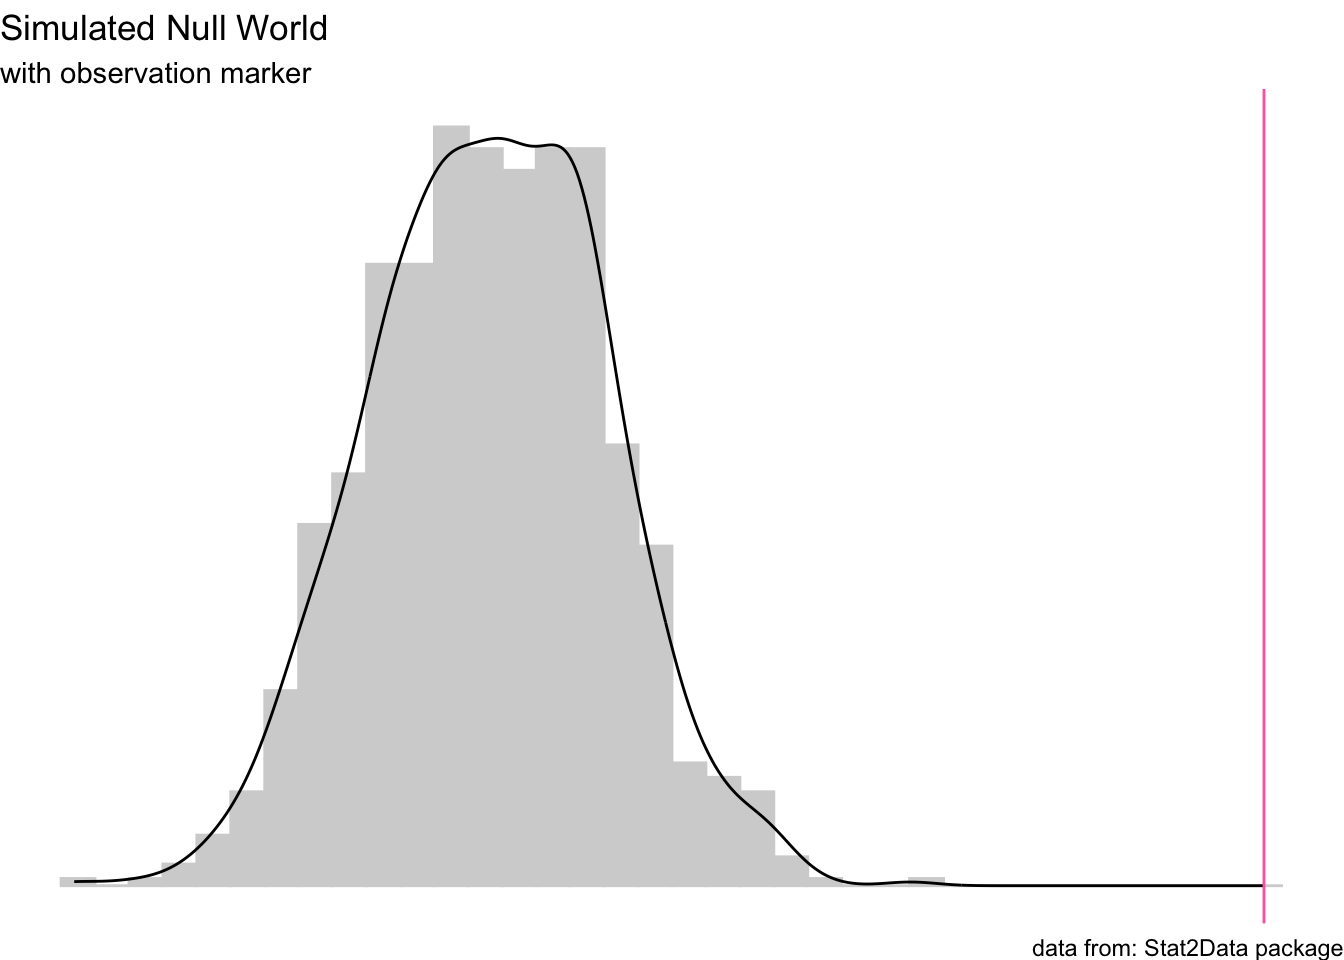
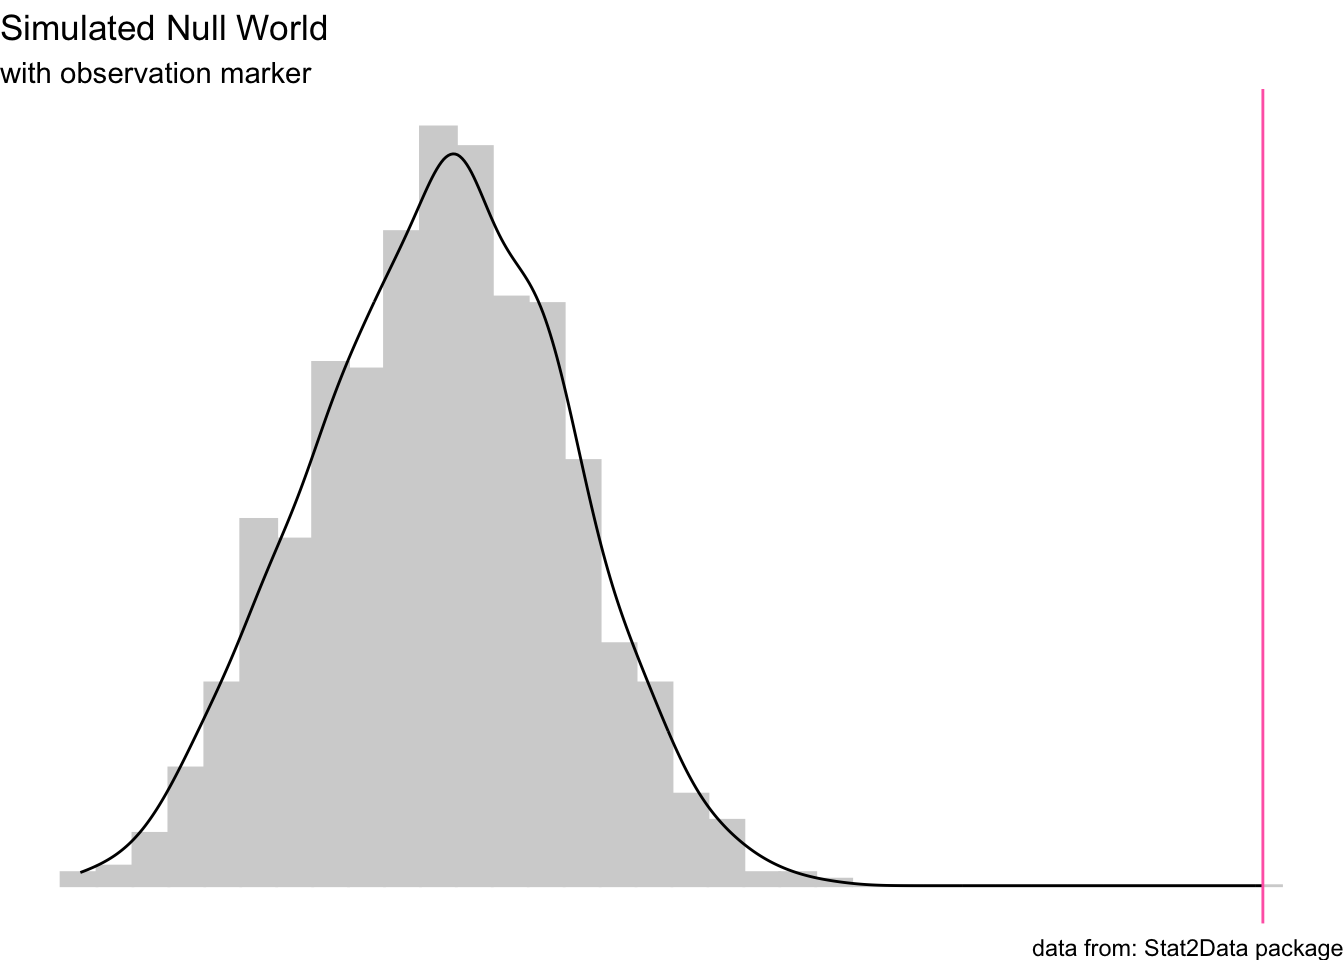
some edits

Changed region(s): [[0.0312, 0.125, 0.5312, 0.9375], [0.5, 0.75, 0.7188, 0.9375]]

diff --git a/docs/mini_proj_2.html b/docs/mini_proj_2.html
@@ -21,6 +21,40 @@ ul.task-list li input[type="checkbox"] {
   margin: 0 0.8em 0.2em -1em; /* quarto-specific, see https://github.com/quarto-dev/quarto-cli/issues/4556 */ 
   vertical-align: middle;
 }
+/* CSS for syntax highlighting */
+pre > code.sourceCode { white-space: pre; position: relative; }
+pre > code.sourceCode > span { display: inline-block; line-height: 1.25; }
+pre > code.sourceCode > span:empty { height: 1.2em; }
+.sourceCode { overflow: visible; }
+code.sourceCode > span { color: inherit; text-decoration: inherit; }
+div.sourceCode { margin: 1em 0; }
+pre.sourceCode { margin: 0; }
+@media screen {
+div.sourceCode { overflow: auto; }
+}
+@media print {
+pre > code.sourceCode { white-space: pre-wrap; }
+pre > code.sourceCode > span { text-indent: -5em; padding-left: 5em; }
+}
+pre.numberSource code
+  { counter-reset: source-line 0; }
+pre.numberSource code > span
+  { position: relative; left: -4em; counter-increment: source-line; }
+pre.numberSource code > span > a:first-child::before
+  { content: counter(source-line);
+    position: relative; left: -1em; text-align: right; vertical-align: baseline;
+    border: none; display: inline-block;
+    -webkit-touch-callout: none; -webkit-user-select: none;
+    -khtml-user-select: none; -moz-user-select: none;
+    -ms-user-select: none; user-select: none;
+    padding: 0 4px; width: 4em;
+  }
+pre.numberSource { margin-left: 3em;  padding-left: 4px; }
+div.sourceCode
+  {   }
+@media screen {
+pre > code.sourceCode > span > a:first-child::before { text-decoration: underline; }
+}
 </style>
 
 
@@ -153,9 +187,84 @@ ul.task-list li input[type="checkbox"] {
 </header>
 
 <div class="cell">
+<div class="sourceCode cell-code" id="cb1"><pre class="sourceCode r code-with-copy"><code class="sourceCode r"><span id="cb1-1"><a href="#cb1-1" aria-hidden="true" tabindex="-1"></a><span class="fu">library</span>(tidyverse)</span></code><button title="Copy to Clipboard" class="code-copy-button"><i class="bi"></i></button></pre></div>
+<div class="cell-output cell-output-stderr">
+<pre><code>── Attaching core tidyverse packages ──────────────────────── tidyverse 2.0.0 ──
+✔ dplyr     1.1.4     ✔ readr     2.1.5
+✔ forcats   1.0.0     ✔ stringr   1.5.1
+✔ ggplot2   3.4.4     ✔ tibble    3.2.1
+✔ lubridate 1.9.3     ✔ tidyr     1.3.1
+✔ purrr     1.0.2     
+── Conflicts ────────────────────────────────────────── tidyverse_conflicts() ──
+✖ dplyr::filter() masks stats::filter()
+✖ dplyr::lag()    masks stats::lag()
+ℹ Use the conflicted package (&lt;http://conflicted.r-lib.org/&gt;) to force all conflicts to become errors</code></pre>
+</div>
+<div class="sourceCode cell-code" id="cb3"><pre class="sourceCode r code-with-copy"><code class="sourceCode r"><span id="cb3-1"><a href="#cb3-1" aria-hidden="true" tabindex="-1"></a><span class="fu">library</span>(tidyr)</span>
+<span id="cb3-2"><a href="#cb3-2" aria-hidden="true" tabindex="-1"></a><span class="fu">library</span>(Stat2Data)</span>
+<span id="cb3-3"><a href="#cb3-3" aria-hidden="true" tabindex="-1"></a><span class="fu">library</span>(ggplot2)</span>
+<span id="cb3-4"><a href="#cb3-4" aria-hidden="true" tabindex="-1"></a><span class="fu">library</span>(ggthemes)</span>
+<span id="cb3-5"><a href="#cb3-5" aria-hidden="true" tabindex="-1"></a><span class="fu">data</span>(<span class="st">"Handwriting"</span>)</span></code><button title="Copy to Clipboard" class="code-copy-button"><i class="bi"></i></button></pre></div>
+</div>
+<div class="cell">
+<div class="sourceCode cell-code" id="cb4"><pre class="sourceCode r code-with-copy"><code class="sourceCode r"><span id="cb4-1"><a href="#cb4-1" aria-hidden="true" tabindex="-1"></a><span class="fu">t.test</span>(Both <span class="sc">~</span> Gender, <span class="at">data =</span> Handwriting)</span></code><button title="Copy to Clipboard" class="code-copy-button"><i class="bi"></i></button></pre></div>
+<div class="cell-output cell-output-stdout">
+<pre><code>
+    Welch Two Sample t-test
+
+data:  Both by Gender
+t = -7.3944, df = 180.12, p-value = 5.174e-12
+alternative hypothesis: true difference in means between group 0 and group 1 is not equal to 0
+95 percent confidence interval:
+ -14.532440  -8.410108
+sample estimates:
+mean in group 0 mean in group 1 
+       44.94382        56.41509 </code></pre>
+</div>
+</div>
+<div class="cell">
+<div class="sourceCode cell-code" id="cb6"><pre class="sourceCode r code-with-copy"><code class="sourceCode r"><span id="cb6-1"><a href="#cb6-1" aria-hidden="true" tabindex="-1"></a>handwriting_small <span class="ot">&lt;-</span> Handwriting <span class="sc">|&gt;</span> </span>
+<span id="cb6-2"><a href="#cb6-2" aria-hidden="true" tabindex="-1"></a>  <span class="fu">drop_na</span>() <span class="sc">|&gt;</span></span>
+<span id="cb6-3"><a href="#cb6-3" aria-hidden="true" tabindex="-1"></a>  <span class="fu">mutate</span>(<span class="at">gender =</span> Gender, <span class="at">perc_correct =</span> Both) <span class="sc">|&gt;</span> </span>
+<span id="cb6-4"><a href="#cb6-4" aria-hidden="true" tabindex="-1"></a>  <span class="fu">select</span>(gender, perc_correct) <span class="sc">|&gt;</span></span>
+<span id="cb6-5"><a href="#cb6-5" aria-hidden="true" tabindex="-1"></a>  <span class="fu">group_by</span>(gender) <span class="sc">|&gt;</span></span>
+<span id="cb6-6"><a href="#cb6-6" aria-hidden="true" tabindex="-1"></a>  <span class="fu">summarize</span>(<span class="at">avg_perc =</span> <span class="fu">mean</span>(perc_correct))</span>
+<span id="cb6-7"><a href="#cb6-7" aria-hidden="true" tabindex="-1"></a></span>
+<span id="cb6-8"><a href="#cb6-8" aria-hidden="true" tabindex="-1"></a>gender_diff <span class="ot">&lt;-</span> handwriting_small[[<span class="dv">2</span>]][<span class="dv">2</span>] <span class="sc">-</span> handwriting_small[[<span class="dv">2</span>]][<span class="dv">1</span>]</span>
+<span id="cb6-9"><a href="#cb6-9" aria-hidden="true" tabindex="-1"></a></span>
+<span id="cb6-10"><a href="#cb6-10" aria-hidden="true" tabindex="-1"></a></span>
+<span id="cb6-11"><a href="#cb6-11" aria-hidden="true" tabindex="-1"></a>sim_gender_diffs <span class="ot">&lt;-</span> <span class="fu">vector</span>(<span class="st">"double"</span>, <span class="dv">1000</span>)</span>
+<span id="cb6-12"><a href="#cb6-12" aria-hidden="true" tabindex="-1"></a><span class="cf">for</span>(i <span class="cf">in</span> <span class="dv">1</span><span class="sc">:</span><span class="dv">1000</span>) {</span>
+<span id="cb6-13"><a href="#cb6-13" aria-hidden="true" tabindex="-1"></a>  handwriting_small <span class="ot">&lt;-</span> Handwriting <span class="sc">|&gt;</span></span>
+<span id="cb6-14"><a href="#cb6-14" aria-hidden="true" tabindex="-1"></a>    <span class="fu">drop_na</span>() <span class="sc">|&gt;</span></span>
+<span id="cb6-15"><a href="#cb6-15" aria-hidden="true" tabindex="-1"></a>    <span class="fu">mutate</span>(<span class="at">gender =</span> Gender, </span>
+<span id="cb6-16"><a href="#cb6-16" aria-hidden="true" tabindex="-1"></a>           <span class="at">perc_correct =</span> Both, </span>
+<span id="cb6-17"><a href="#cb6-17" aria-hidden="true" tabindex="-1"></a>           <span class="at">gender =</span> <span class="fu">sample</span>(gender)) <span class="sc">|&gt;</span></span>
+<span id="cb6-18"><a href="#cb6-18" aria-hidden="true" tabindex="-1"></a>    <span class="fu">group_by</span>(gender) <span class="sc">|&gt;</span></span>
+<span id="cb6-19"><a href="#cb6-19" aria-hidden="true" tabindex="-1"></a>    <span class="fu">summarize</span>(<span class="at">avg_perc =</span> <span class="fu">mean</span>(perc_correct))</span>
+<span id="cb6-20"><a href="#cb6-20" aria-hidden="true" tabindex="-1"></a>  sim_gender_diffs[[i]] <span class="ot">&lt;-</span> handwriting_small[[<span class="dv">2</span>]][<span class="dv">2</span>] <span class="sc">-</span> handwriting_small[[<span class="dv">2</span>]][<span class="dv">1</span>]</span>
+<span id="cb6-21"><a href="#cb6-21" aria-hidden="true" tabindex="-1"></a>}  </span>
+<span id="cb6-22"><a href="#cb6-22" aria-hidden="true" tabindex="-1"></a></span>
+<span id="cb6-23"><a href="#cb6-23" aria-hidden="true" tabindex="-1"></a>sim_null_world <span class="ot">&lt;-</span> <span class="fu">tibble</span>(<span class="at">sim_gender_diffs =</span> sim_gender_diffs)</span>
+<span id="cb6-24"><a href="#cb6-24" aria-hidden="true" tabindex="-1"></a><span class="fu">ggplot</span>(sim_null_world, <span class="fu">aes</span>(<span class="at">x =</span> sim_gender_diffs)) <span class="sc">+</span></span>
+<span id="cb6-25"><a href="#cb6-25" aria-hidden="true" tabindex="-1"></a>  <span class="fu">geom_histogram</span>(<span class="fu">aes</span>(<span class="at">y =</span> <span class="fu">after_stat</span>(density)), <span class="at">color =</span> <span class="st">"lightgrey"</span>, <span class="at">fill =</span> <span class="st">"lightgrey"</span>, <span class="at">binwidth =</span> <span class="fl">0.5</span>) <span class="sc">+</span></span>
+<span id="cb6-26"><a href="#cb6-26" aria-hidden="true" tabindex="-1"></a>  <span class="fu">geom_density</span>(<span class="at">col =</span> <span class="st">"black"</span>) <span class="sc">+</span></span>
+<span id="cb6-27"><a href="#cb6-27" aria-hidden="true" tabindex="-1"></a>  <span class="fu">geom_vline</span>(<span class="at">xintercept =</span> gender_diff, <span class="at">color =</span> <span class="st">"hotpink"</span>) <span class="sc">+</span></span>
+<span id="cb6-28"><a href="#cb6-28" aria-hidden="true" tabindex="-1"></a>  <span class="fu">labs</span>(<span class="at">title =</span> <span class="st">"Simulated Null World"</span>,</span>
+<span id="cb6-29"><a href="#cb6-29" aria-hidden="true" tabindex="-1"></a>       <span class="at">subtitle =</span> <span class="st">"with observation marker"</span>,</span>
+<span id="cb6-30"><a href="#cb6-30" aria-hidden="true" tabindex="-1"></a>       <span class="at">caption =</span> <span class="st">"data from: Stat2Data package"</span>,</span>
+<span id="cb6-31"><a href="#cb6-31" aria-hidden="true" tabindex="-1"></a>       ) <span class="sc">+</span></span>
+<span id="cb6-32"><a href="#cb6-32" aria-hidden="true" tabindex="-1"></a>  <span class="fu">theme_void</span>()</span></code><button title="Copy to Clipboard" class="code-copy-button"><i class="bi"></i></button></pre></div>
 <div class="cell-output-display">
 <p><img src="mini_proj_2_files/figure-html/unnamed-chunk-3-1.png" class="img-fluid" width="672"></p>
 </div>
+<div class="sourceCode cell-code" id="cb7"><pre class="sourceCode r code-with-copy"><code class="sourceCode r"><span id="cb7-1"><a href="#cb7-1" aria-hidden="true" tabindex="-1"></a>find_p <span class="ot">&lt;-</span> <span class="cf">function</span>(x,y) {</span>
+<span id="cb7-2"><a href="#cb7-2" aria-hidden="true" tabindex="-1"></a>  p_value <span class="ot">&lt;-</span> <span class="fu">sum</span>(<span class="fu">abs</span>(x) <span class="sc">&gt;=</span> <span class="fu">abs</span>(y)) <span class="sc">/</span> <span class="dv">1000</span></span>
+<span id="cb7-3"><a href="#cb7-3" aria-hidden="true" tabindex="-1"></a>  </span>
+<span id="cb7-4"><a href="#cb7-4" aria-hidden="true" tabindex="-1"></a>p_value</span>
+<span id="cb7-5"><a href="#cb7-5" aria-hidden="true" tabindex="-1"></a>}</span>
+<span id="cb7-6"><a href="#cb7-6" aria-hidden="true" tabindex="-1"></a></span>
+<span id="cb7-7"><a href="#cb7-7" aria-hidden="true" tabindex="-1"></a><span class="fu">find_p</span>(sim_gender_diffs, gender_diff)</span></code><button title="Copy to Clipboard" class="code-copy-button"><i class="bi"></i></button></pre></div>
 <div class="cell-output cell-output-stdout">
 <pre><code>[1] 0</code></pre>
 </div>
